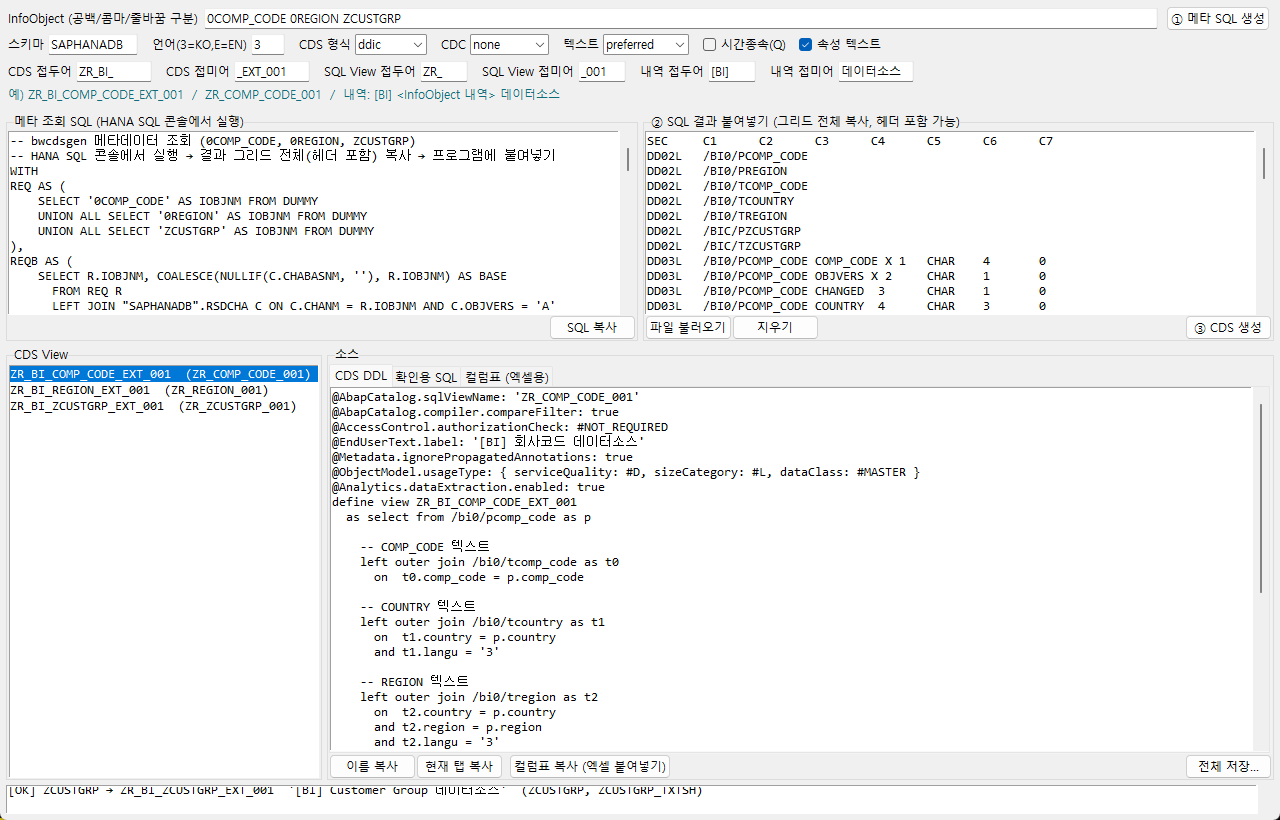
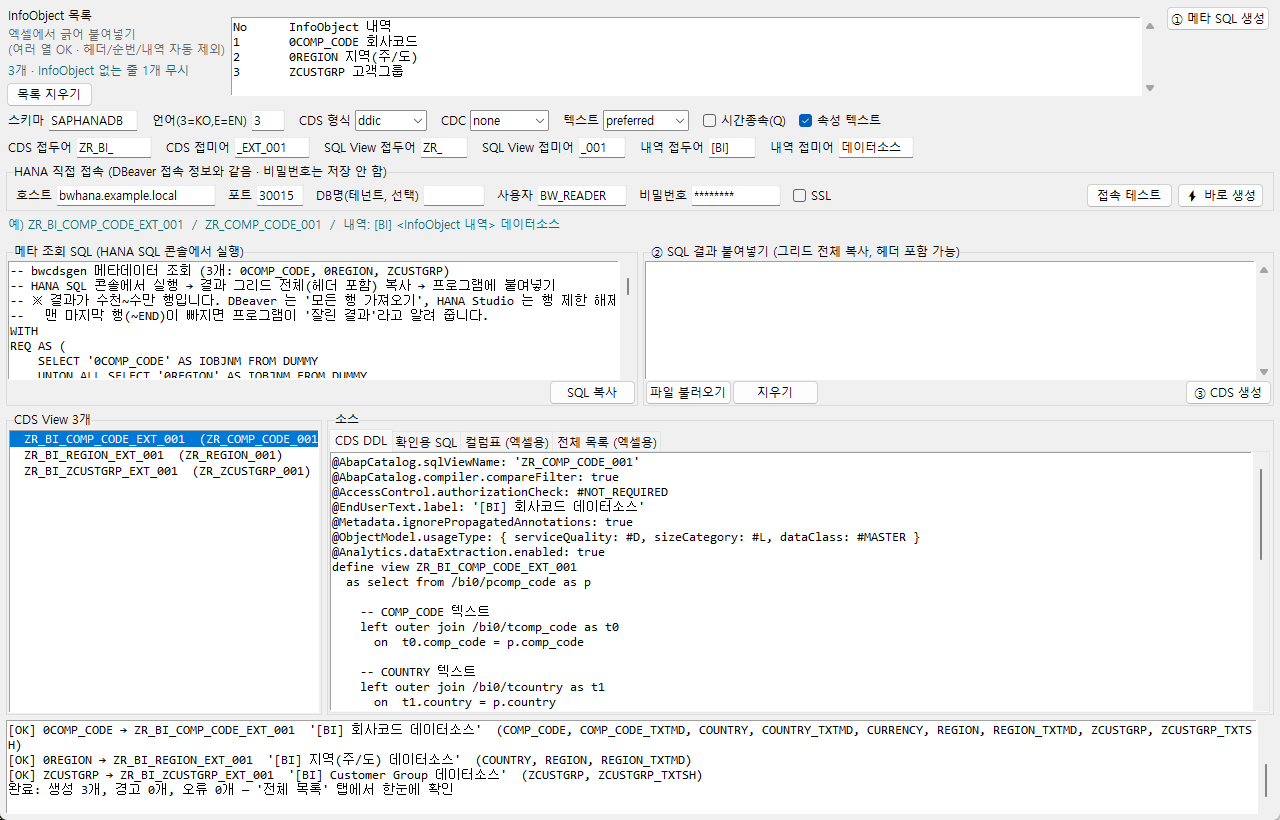
v1.8: HANA 직접 접속, 엑셀 목록 붙여넣기, 대량 생성

diff --git a/index.html b/index.html
@@ -141,14 +141,14 @@ footer { border-top: 1px solid var(--line); padding-top: 18px; font-size: 12px; 
         <svg viewBox="0 0 24 24" fill="none" stroke="currentColor" stroke-width="2.2" stroke-linecap="round" stroke-linejoin="round" aria-hidden="true"><path d="M12 3v12"/><path d="m7 10 5 5 5-5"/><path d="M5 21h14"/></svg>
         최신 버전 다운로드
       </a>
-      <div class="meta">v1.7 · 10.4 MB · Windows 10/11 64bit · 설치 불필요<br>
+      <div class="meta">v1.8 · 10.4 MB · Windows 10/11 64bit · 설치 불필요<br>
         <a href="https://github.com/SeongTaekLee/bwcdsgen-release/releases">이전 버전과 변경 내역</a></div>
     </div>
   </header>
 
   <figure>
-    <div class="shot"><img src="assets/gui-cds.png" width="1280" height="820" alt="BWCDSGen 화면: 위쪽에 InfoObject 입력과 옵션, 가운데 메타 SQL과 결과 붙여넣기 칸, 아래쪽에 생성된 CDS View 목록과 DDL 소스"></div>
-    <figcaption>InfoObject를 넣고 메타 SQL을 만들고, HANA 결과를 붙여넣으면 CDS View 목록과 소스가 나옵니다.</figcaption>
+    <div class="shot"><img src="assets/gui-cds.png" width="1280" height="820" alt="BWCDSGen 화면: 위쪽에 엑셀에서 붙여넣은 InfoObject 목록과 옵션, HANA 직접 접속 칸, 아래쪽에 생성된 CDS View 목록과 DDL 소스"></div>
+    <figcaption>엑셀에서 InfoObject 목록을 긁어 붙여넣고 <b>⚡ 바로 생성</b>을 누르면 CDS View 목록과 소스가 나옵니다. 수백 개도 한 번에 됩니다.</figcaption>
   </figure>
 
   <section aria-labelledby="out-title">
@@ -204,12 +204,13 @@ where p.objvers = 'A'</pre>
   <section aria-labelledby="use-title">
     <h2 id="use-title">사용 순서</h2>
     <ol class="steps">
-      <li><div>zip을 풀고 <span class="k">BWCDSGen.exe</span> 실행. Python이나 DB 드라이버는 필요 없습니다.</div></li>
-      <li><div>InfoObject 입력(예: <span class="k">0COMP_CODE 0REGION</span>) → <b>① 메타 SQL 생성</b>. SQL이 클립보드에 복사됩니다.</div></li>
-      <li><div>HANA SQL 콘솔(HANA Studio, DBeaver, DBACOCKPIT)에서 실행하고 결과 그리드 전체를 복사해 <b>② 붙여넣기</b> 칸에 넣습니다.</div></li>
-      <li><div><b>③ CDS 생성</b> → 목록에서 CDS 선택 → 소스 복사 → ADT에서 Data Definition으로 붙여넣고 활성화. 설계서용은 <b>컬럼표 복사</b>로 엑셀에 붙여넣기.</div></li>
+      <li><div>zip을 풀고 <span class="k">BWCDSGen.exe</span> 실행. 설치는 필요 없습니다.</div></li>
+      <li><div>엑셀에서 InfoObject 목록을 긁어 <b>InfoObject 목록</b> 칸에 붙여넣습니다. 순번·내역·비고 열을 같이 긁어도 되고, 헤더·빈 줄·중복은 자동으로 빠집니다.</div></li>
+      <li><div><b>HANA 직접 접속</b> 칸에 DBeaver와 같은 호스트 · 포트 · 사용자 · 비밀번호를 넣고 <b>⚡ 바로 생성</b>. DBeaver에서 HANA에 한 번 접속해 두었다면 그 HANA 드라이버를 자동으로 찾아 씁니다. 비밀번호는 저장하지 않습니다.</div></li>
+      <li><div>목록에서 CDS 선택 → 소스 복사 → ADT에서 Data Definition으로 붙여넣고 활성화. 설계서용은 <b>컬럼표 복사</b>, 여러 개면 <b>전체 목록 복사 · 전체 컬럼표 복사</b>로 엑셀에 한 번에 붙여넣기.</div></li>
       <li><div>Datasphere에서 Replication Flow 생성 → 소스: BW ABAP 연결의 CDS → 대상: HDLF 스페이스 Local Table (File), Load Type은 Initial Only.</div></li>
     </ol>
+    <p class="meta" style="margin-top:10px"><b>DB 접속이 안 되는 PC라면</b> 예전 방식도 그대로 됩니다: <b>① 메타 SQL 생성</b> → HANA SQL 콘솔에서 실행 → 결과 전체를 <b>② 붙여넣기</b> 칸에 → <b>③ CDS 생성</b>. 결과가 수천 행이 넘으므로 DBeaver는 “모든 행 가져오기” 후 복사하세요. 잘린 결과를 붙여넣으면 프로그램이 알려 줍니다.</p>
   </section>
 
   <section aria-labelledby="rule-title">
@@ -231,13 +232,14 @@ where p.objvers = 'A'</pre>
 
   <div class="note" role="note">
     <p><b>처음 실행 시 경고가 뜰 수 있습니다.</b> 코드 서명이 없는 exe라 Windows SmartScreen에서 “추가 정보 → 실행”을 눌러야 합니다. 사내 보안 프로그램이 막으면 아래 SHA-256 값으로 예외 등록을 요청하세요.</p>
-    <p class="hash">v1.7 SHA-256 · 88498B878EA7EA43E93DFFBEE385B1F1996BA74F4D0B7BE283BBB301F5789224</p>
+    <p class="hash">v1.8 SHA-256 · 930702B34AC41CEB806151B1F3B21EC00A857D212F2791148D8D30A508615C51</p>
     <p>메타 SQL은 버전에 따라 가져오는 항목이 다릅니다. 프로그램을 업데이트했다면 메타 SQL을 새로 만들어 실행하세요.</p>
   </div>
 
   <section aria-labelledby="log-title">
     <h2 id="log-title">버전 기록</h2>
     <ul class="log">
+      <li><b>v1.8</b><span>HANA 직접 접속 + ⚡ 바로 생성, 엑셀 목록 붙여넣기, 수백 개 일괄 생성(전체 목록 · 전체 컬럼표), 잘린 붙여넣기 감지</span></li>
       <li><b>v1.7</b><span>컬럼표 is_key · is_not_null을 Y/N으로, spec은 빈 칸</span></li>
       <li><b>v1.6</b><span>데이터스피어 설계서용 컬럼표 추가 (엑셀 붙여넣기 / CSV)</span></li>
       <li><b>v1.5</b><span>CDS 내역을 [BI] &lt;InfoObject 내역&gt; 데이터소스로</span></li>
@@ -249,7 +251,7 @@ where p.objvers = 'A'</pre>
   </section>
 
   <footer>
-    <span>BWCDSGen · 메타 테이블 DD02L, DD03L, RSDIOBJ, RSDIOBJT, RSDCHA 기반 · 읽기 전용 SQL만 생성합니다</span>
+    <span>BWCDSGen · 메타 테이블 DD02L, DD03L, RSDIOBJ, RSDIOBJT, RSDCHA 기반 · 읽기 전용 조회만 합니다</span>
     <a href="https://github.com/SeongTaekLee/bwcdsgen-release/releases">Releases</a>
   </footer>
 </main>
